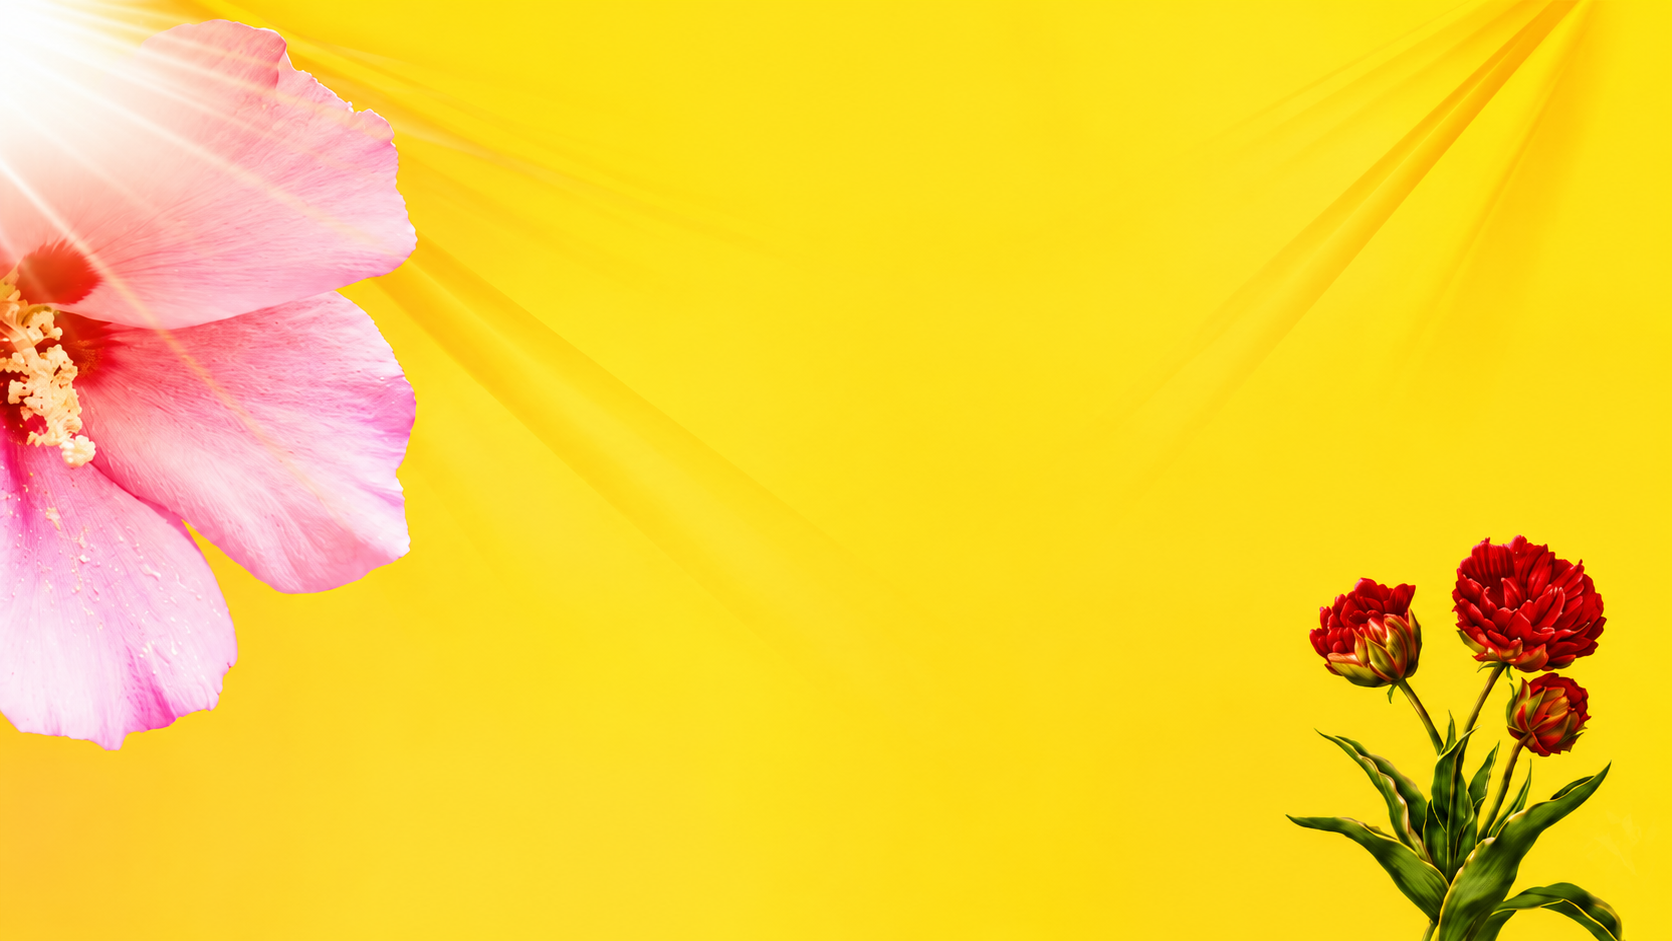
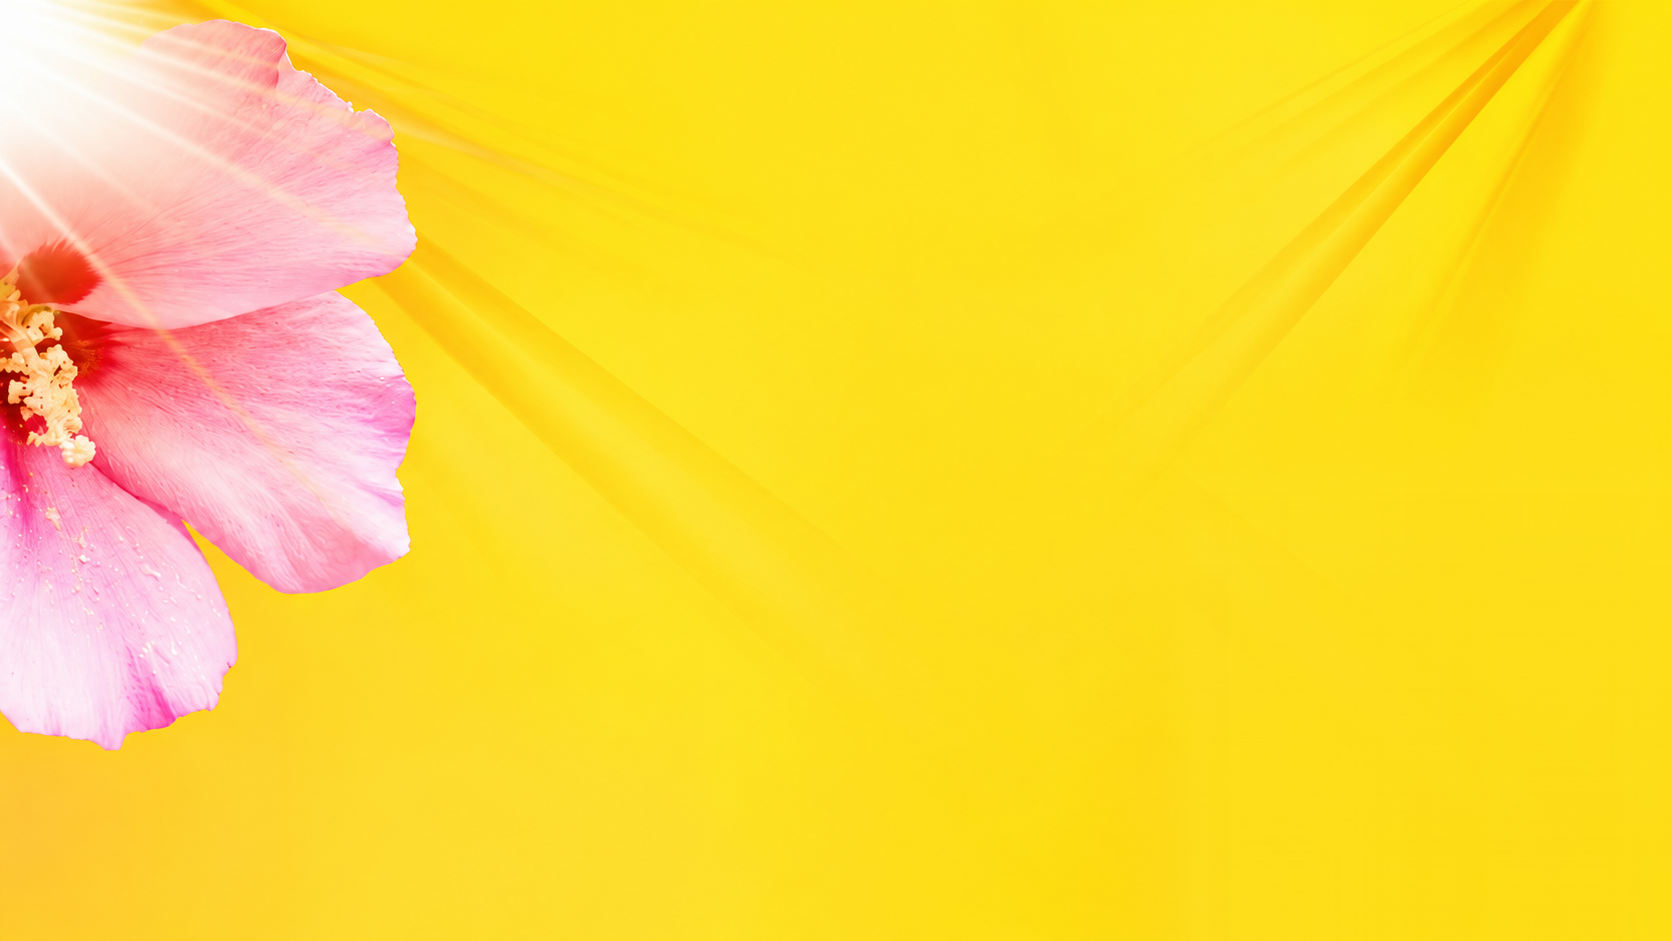
feat(frontend): refine presentation display controls

Changed region(s): [[0.7775, 0.5547, 0.9952, 1.0]]

diff --git a/frontend/src/App.tsx b/frontend/src/App.tsx
@@ -874,6 +874,20 @@ function PresentationsPage() {
   useEffect(() => {
     if (!presenting) return undefined;
     const onKeyDown = (event: KeyboardEvent) => {
+      if (event.ctrlKey || event.metaKey) {
+        if (event.key === '+' || event.key === '=') {
+          event.preventDefault();
+          setProjectionZoom((zoom) => clampNumber(Number((zoom + 0.12).toFixed(2)), 0.5, 4));
+        } else if (event.key === '-' || event.key === '_') {
+          event.preventDefault();
+          setProjectionZoom((zoom) => clampNumber(Number((zoom - 0.12).toFixed(2)), 0.5, 4));
+        } else if (event.key === '0') {
+          event.preventDefault();
+          setProjectionZoom(1.18);
+        }
+        return;
+      }
+
       if (event.key === 'Escape') {
         event.preventDefault();
         if (document.fullscreenElement) exitAppFullscreen().catch(() => {});
@@ -982,10 +996,19 @@ function PresentationsPage() {
 
   const isSearchingSongs = searchQuery.trim().length > 0;
   const visibleBrowseSongs = isSearchingSongs ? searchResults : (browseData?.songs || []);
+  const changeProjectionZoom = (delta: number) => {
+    setProjectionZoom((zoom) => clampNumber(Number((zoom + delta).toFixed(2)), 0.5, 4));
+  };
+
+  const handlePresentationWheel = (event: React.WheelEvent<HTMLElement>) => {
+    if (!event.ctrlKey && !event.metaKey) return;
+    event.preventDefault();
+    changeProjectionZoom(event.deltaY < 0 ? 0.08 : -0.08);
+  };
 
   if (presenting && slideSong) {
     return (
-      <section className="presentation-show" {...presentationTapHandlers}>
+      <section className="presentation-show" onWheel={handlePresentationWheel} {...presentationTapHandlers}>
         {isPresentationFullscreen && (
           <button
             className="presentation-fullscreen-exit"
@@ -1013,11 +1036,23 @@ function PresentationsPage() {
             className={`projection-lyrics columns-${projectionLyricColumns.length}`}
             style={{ '--projection-zoom': projectionZoom } as React.CSSProperties}
           >
-            {projectionLyricColumns.map((column, index) => (
+            {projectionLyricColumns.map((column, index) => {
+              const columnOffset = projectionLyricColumns
+                .slice(0, index)
+                .reduce((total, currentColumn) => total + currentColumn.length, 0);
+
+              return (
               <div className="projection-lyric-column" key={`${slideSong.id}-column-${index}`}>
-                {column.map((stanza, stanzaIndex) => (
+                {column.map((stanza, stanzaIndex) => {
+                  const partNumber = columnOffset + stanzaIndex + 1;
+                  const isChorus = isProjectionChorus(stanza);
+
+                  return (
                   <div className="projection-stanza-group" key={`${slideSong.id}-stanza-${index}-${stanzaIndex}`}>
-                    <div className={`projection-stanza ${isProjectionChorus(stanza) ? 'projection-stanza-chorus' : ''}`}>
+                    <span className={`projection-part-number ${isChorus ? 'projection-part-number-chorus' : ''}`}>
+                      {partNumber}
+                    </span>
+                    <div className={`projection-stanza ${isChorus ? 'projection-stanza-chorus' : ''}`}>
                       {stanza.map((line, lineIndex) => (
                         <p key={`${line}-${lineIndex}`}>{line || String.fromCharCode(160)}</p>
                       ))}
@@ -1029,10 +1064,12 @@ function PresentationsPage() {
                         <span />
                       </div>
                     )}
-                  </div>
-                ))}
-              </div>
-            ))}
+                      </div>
+                    );
+                  })}
+                </div>
+              );
+            })}
           </div>
         </article>
         <footer className="presentation-controls">

diff --git a/frontend/src/styles/index.css b/frontend/src/styles/index.css
@@ -818,9 +818,12 @@ h2 {
   grid-template-rows: clamp(68px, 8vh, 96px) minmax(0, 1fr) clamp(68px, 8vh, 88px);
   gap: 0;
   overflow: hidden;
-  background: #ffe714 url("/song-background.png") center / cover no-repeat;
+  background:
+    radial-gradient(circle at 20% 12%, rgba(255, 255, 255, 0.78), transparent 26rem),
+    radial-gradient(circle at 82% 5%, rgba(176, 221, 255, 0.85), transparent 30rem),
+    linear-gradient(145deg, #e9f7ff 0%, #cdeeff 46%, #b7e3fb 100%);
   color: #24104f;
-  touch-action: manipulation;
+  touch-action: auto;
   overscroll-behavior: none;
   -webkit-tap-highlight-color: transparent;
 }
@@ -1017,6 +1020,28 @@ h2 {
 
 .projection-stanza-group {
   min-width: 0;
+}
+
+.projection-part-number {
+  min-width: 34px;
+  height: 34px;
+  display: inline-flex;
+  align-items: center;
+  justify-content: center;
+  margin: 0 auto clamp(4px, 0.7vh, 8px);
+  border: 2px solid rgba(36, 16, 79, 0.24);
+  border-radius: 999px;
+  background: rgba(255, 255, 255, 0.18);
+  color: #24104f;
+  font-size: calc(clamp(0.9rem, 1vw, 1.08rem) * var(--projection-fit-scale));
+  font-weight: 900;
+  line-height: 1;
+}
+
+.projection-part-number-chorus {
+  border-color: rgba(146, 23, 56, 0.42);
+  background: rgba(146, 23, 56, 0.12);
+  color: #921738;
 }
 
 .projection-stanza {
